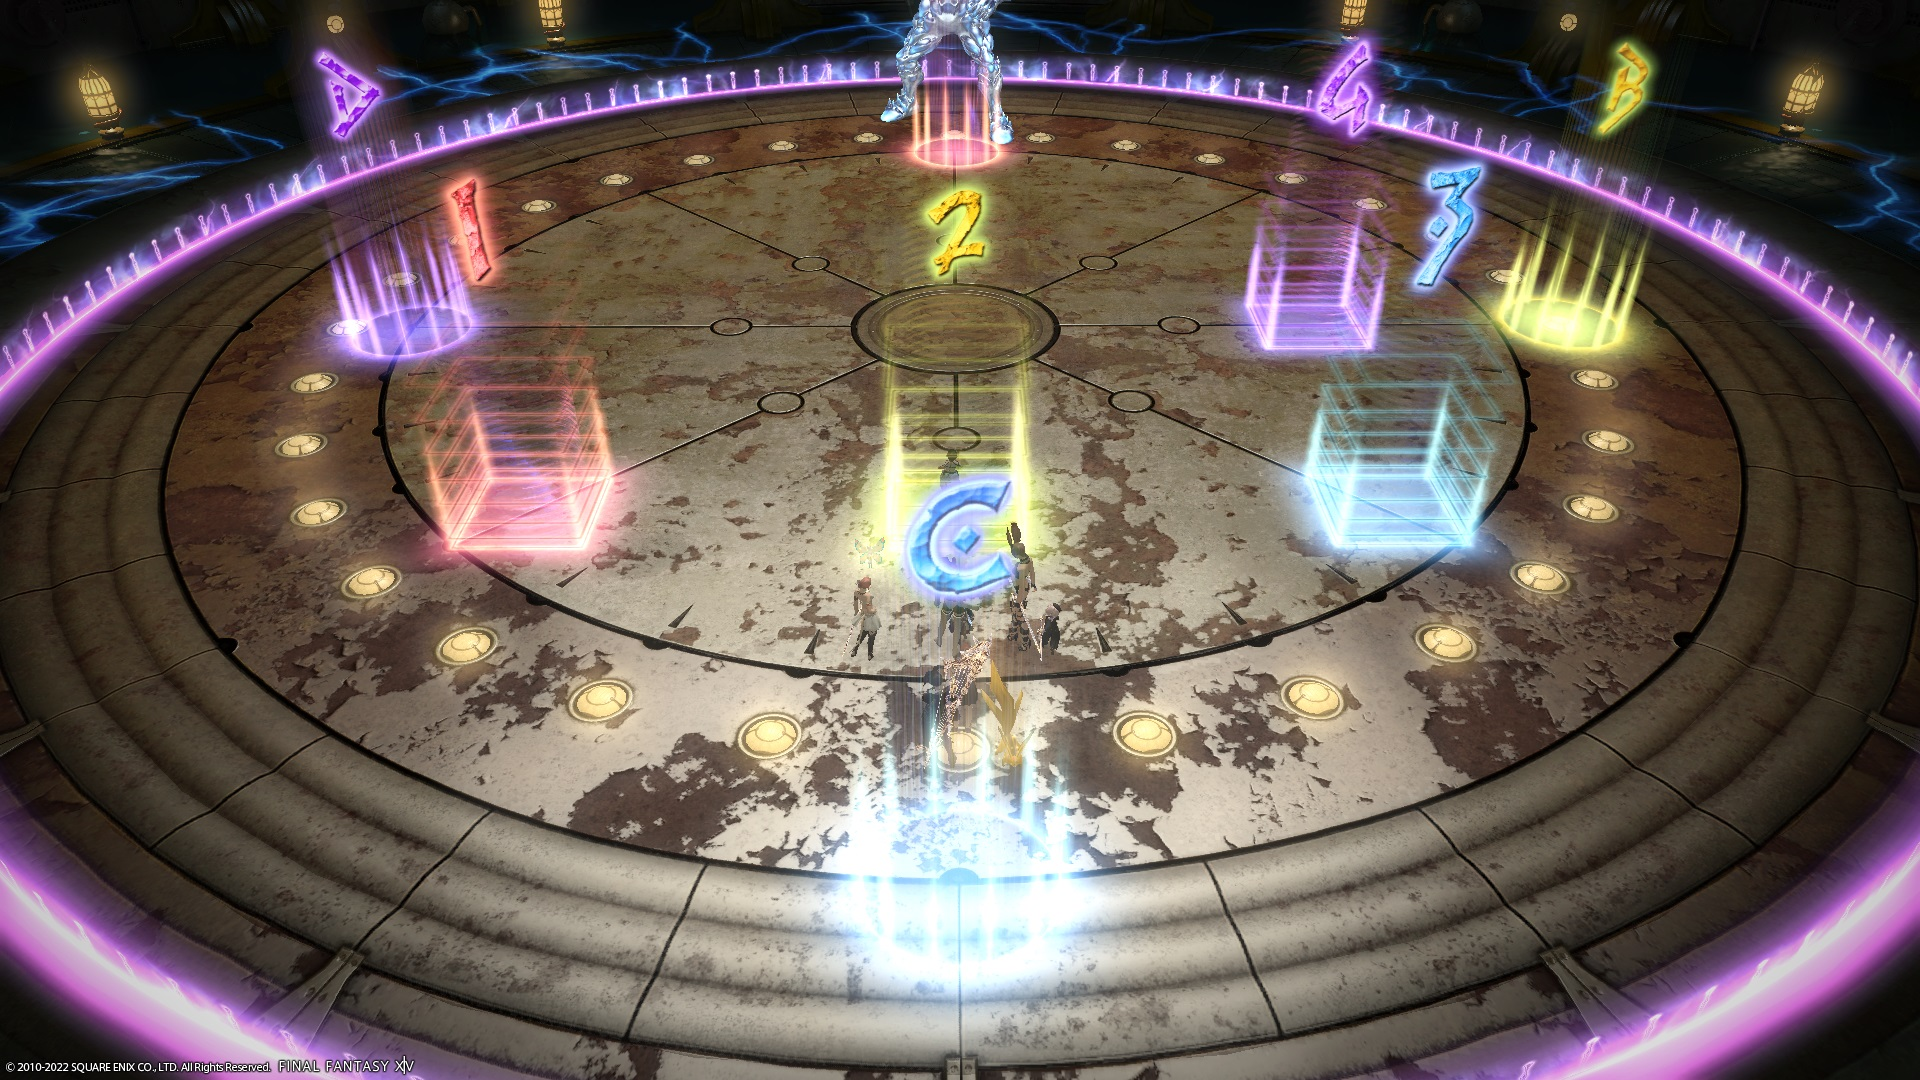
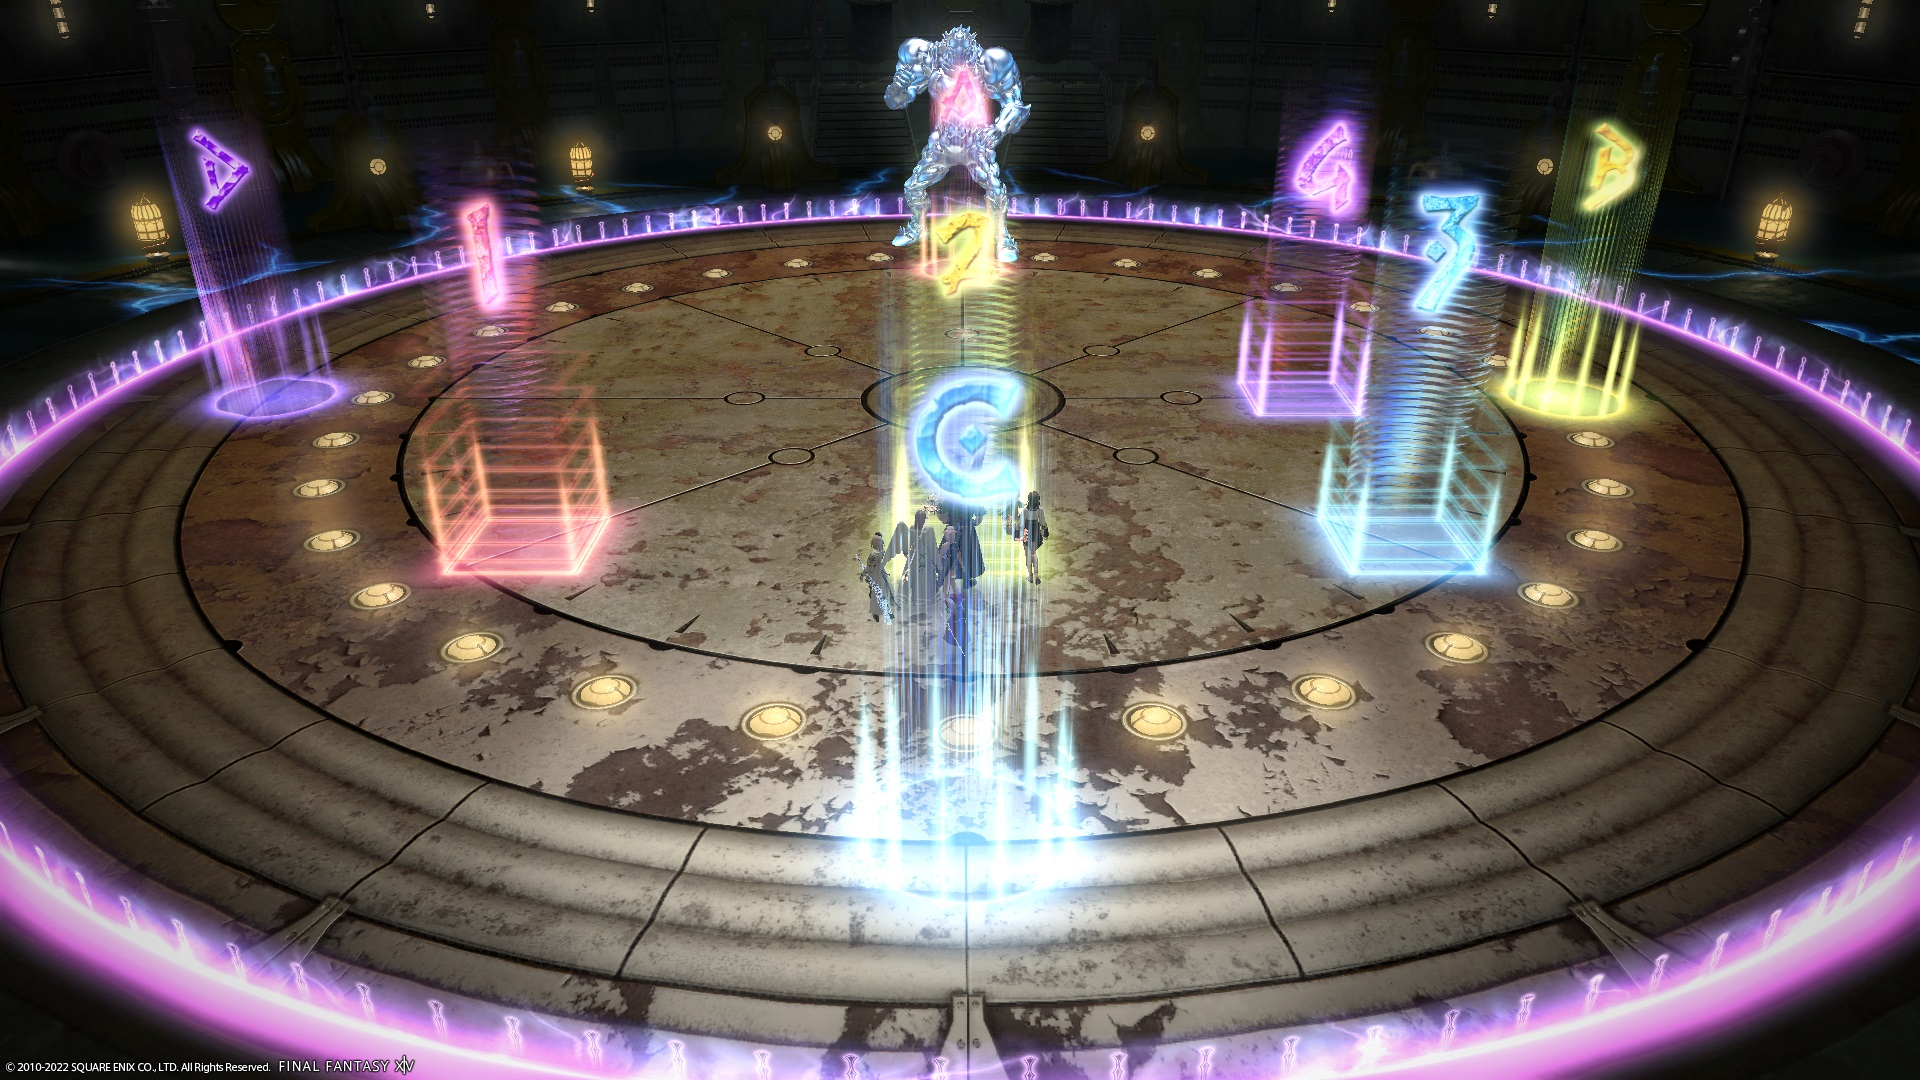
Update markers

diff --git a/ultimates/tea/README.md b/ultimates/tea/README.md
@@ -58,7 +58,7 @@ permalink: /ultimates/tea/
 <summary>XIVLauncher WaymarkPresetPlugin positions</summary>
 
 ```json
-{"Name":"TEA","MapID":694,"A":{"X":100.0,"Y":0.0,"Z":88.0,"ID":0,"Active":true},"B":{"X":114.0,"Y":0.0,"Z":100.0,"ID":1,"Active":true},"C":{"X":100.0,"Y":0.0,"Z":116.0,"ID":2,"Active":true},"D":{"X":87.75,"Y":0.0,"Z":100.0,"ID":3,"Active":true},"One":{"X":92.2,"Y":0.0,"Z":107.8,"ID":4,"Active":true},"Two":{"X":100.0,"Y":0.0,"Z":107.8,"ID":5,"Active":true},"Three":{"X":107.8,"Y":0.0,"Z":107.8,"ID":6,"Active":true},"Four":{"X":107.8,"Y":0.0,"Z":100.0,"ID":7,"Active":true}}
+{"Name":"TEA","MapID":694,"A":{"X":100.0,"Y":0.0,"Z":88.0,"ID":0,"Active":true},"B":{"X":114.0,"Y":0.0,"Z":100.0,"ID":1,"Active":true},"C":{"X":100.0,"Y":0.0,"Z":116.0,"ID":2,"Active":true},"D":{"X":84.0,"Y":0.0,"Z":100.0,"ID":3,"Active":true},"One":{"X":92.2,"Y":0.0,"Z":107.8,"ID":4,"Active":true},"Two":{"X":100.0,"Y":0.0,"Z":107.8,"ID":5,"Active":true},"Three":{"X":107.8,"Y":0.0,"Z":107.8,"ID":6,"Active":true},"Four":{"X":107.8,"Y":0.0,"Z":100.0,"ID":7,"Active":true}}
 ```
 
 </details>
